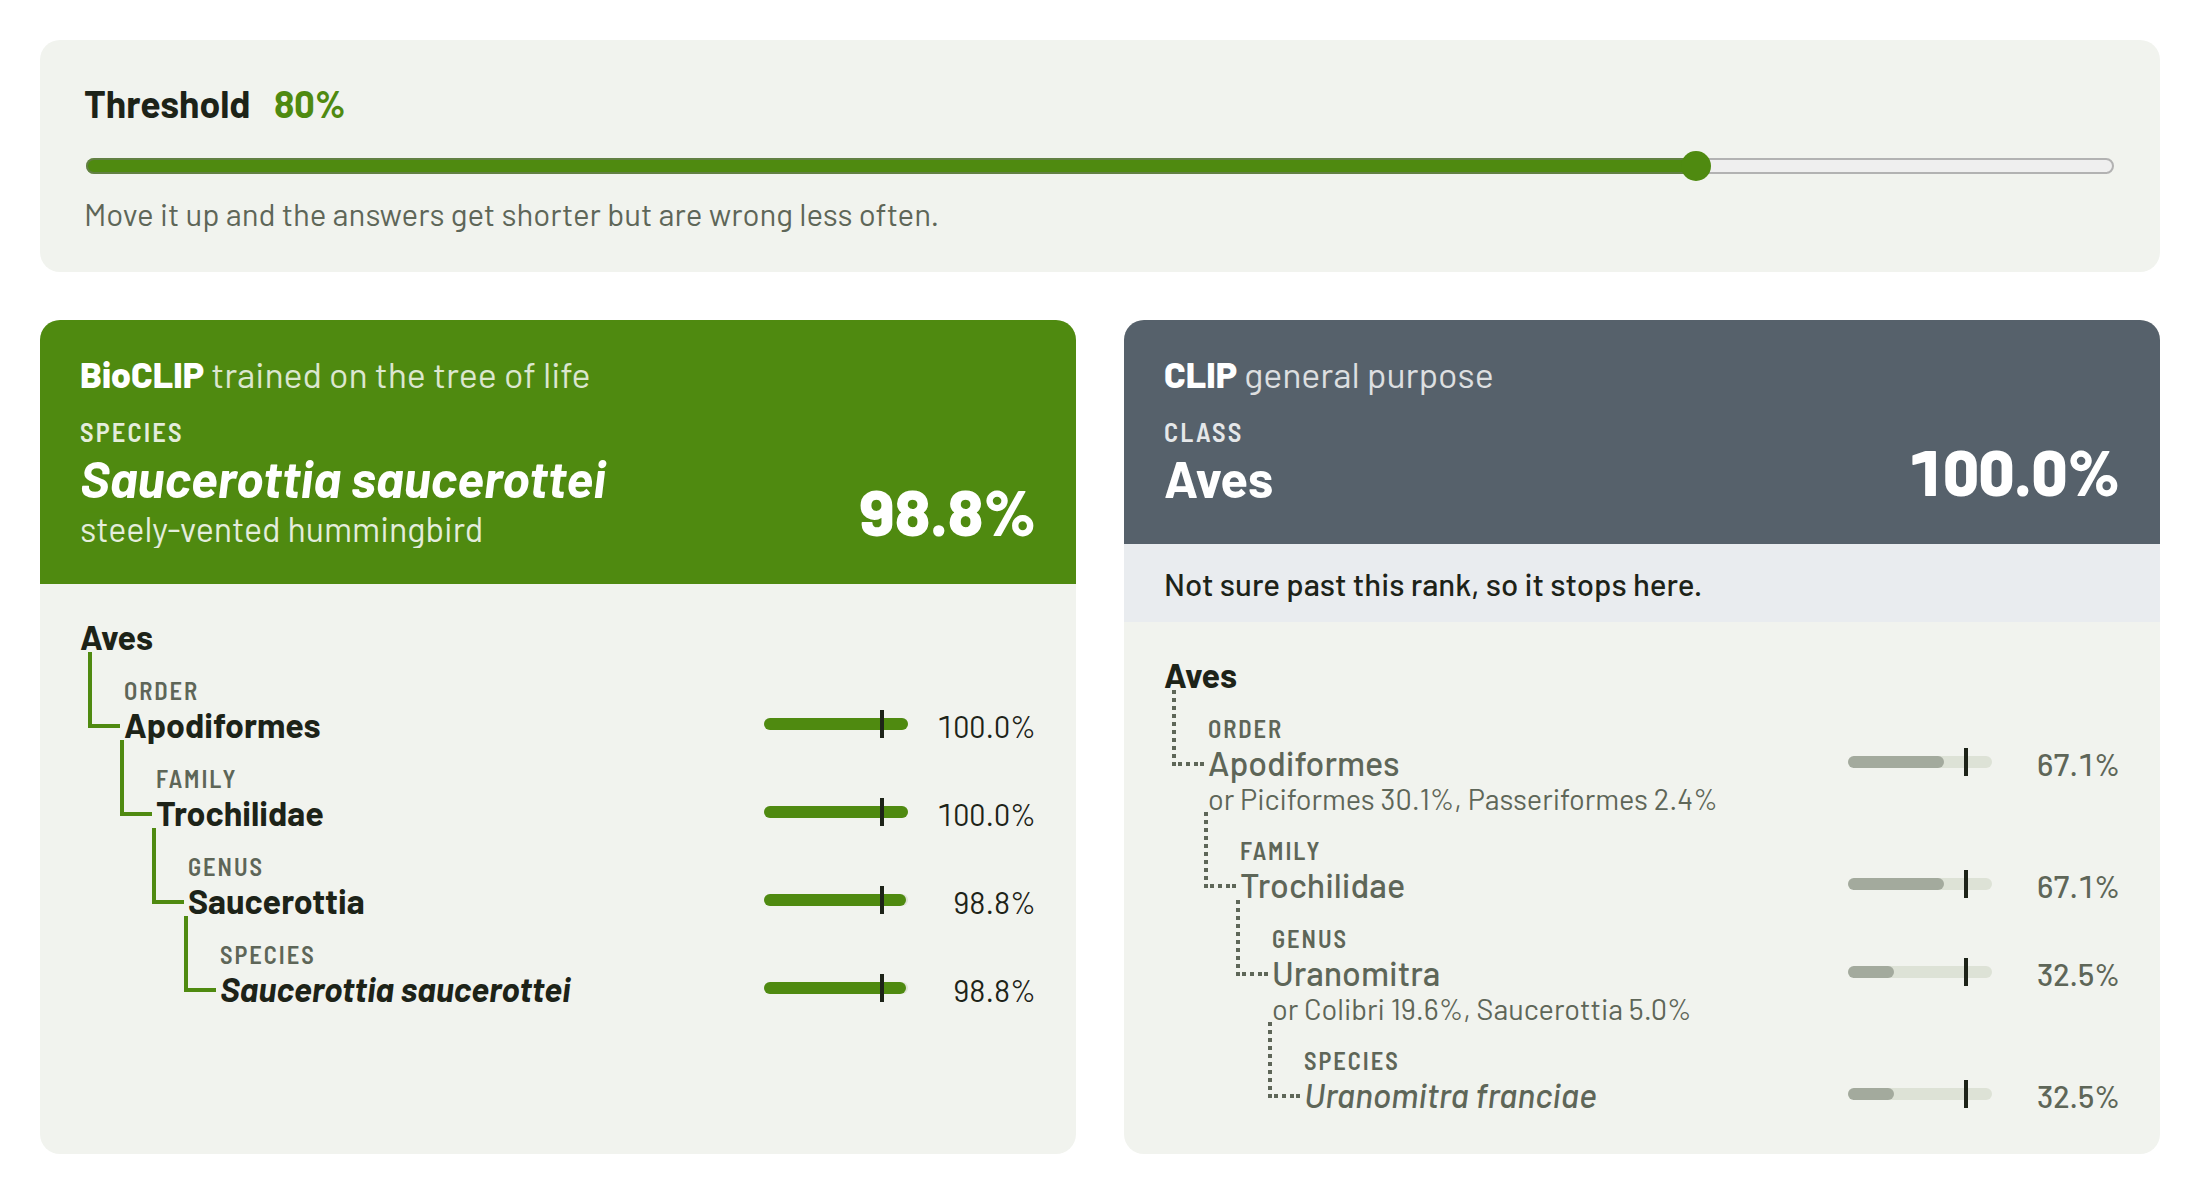
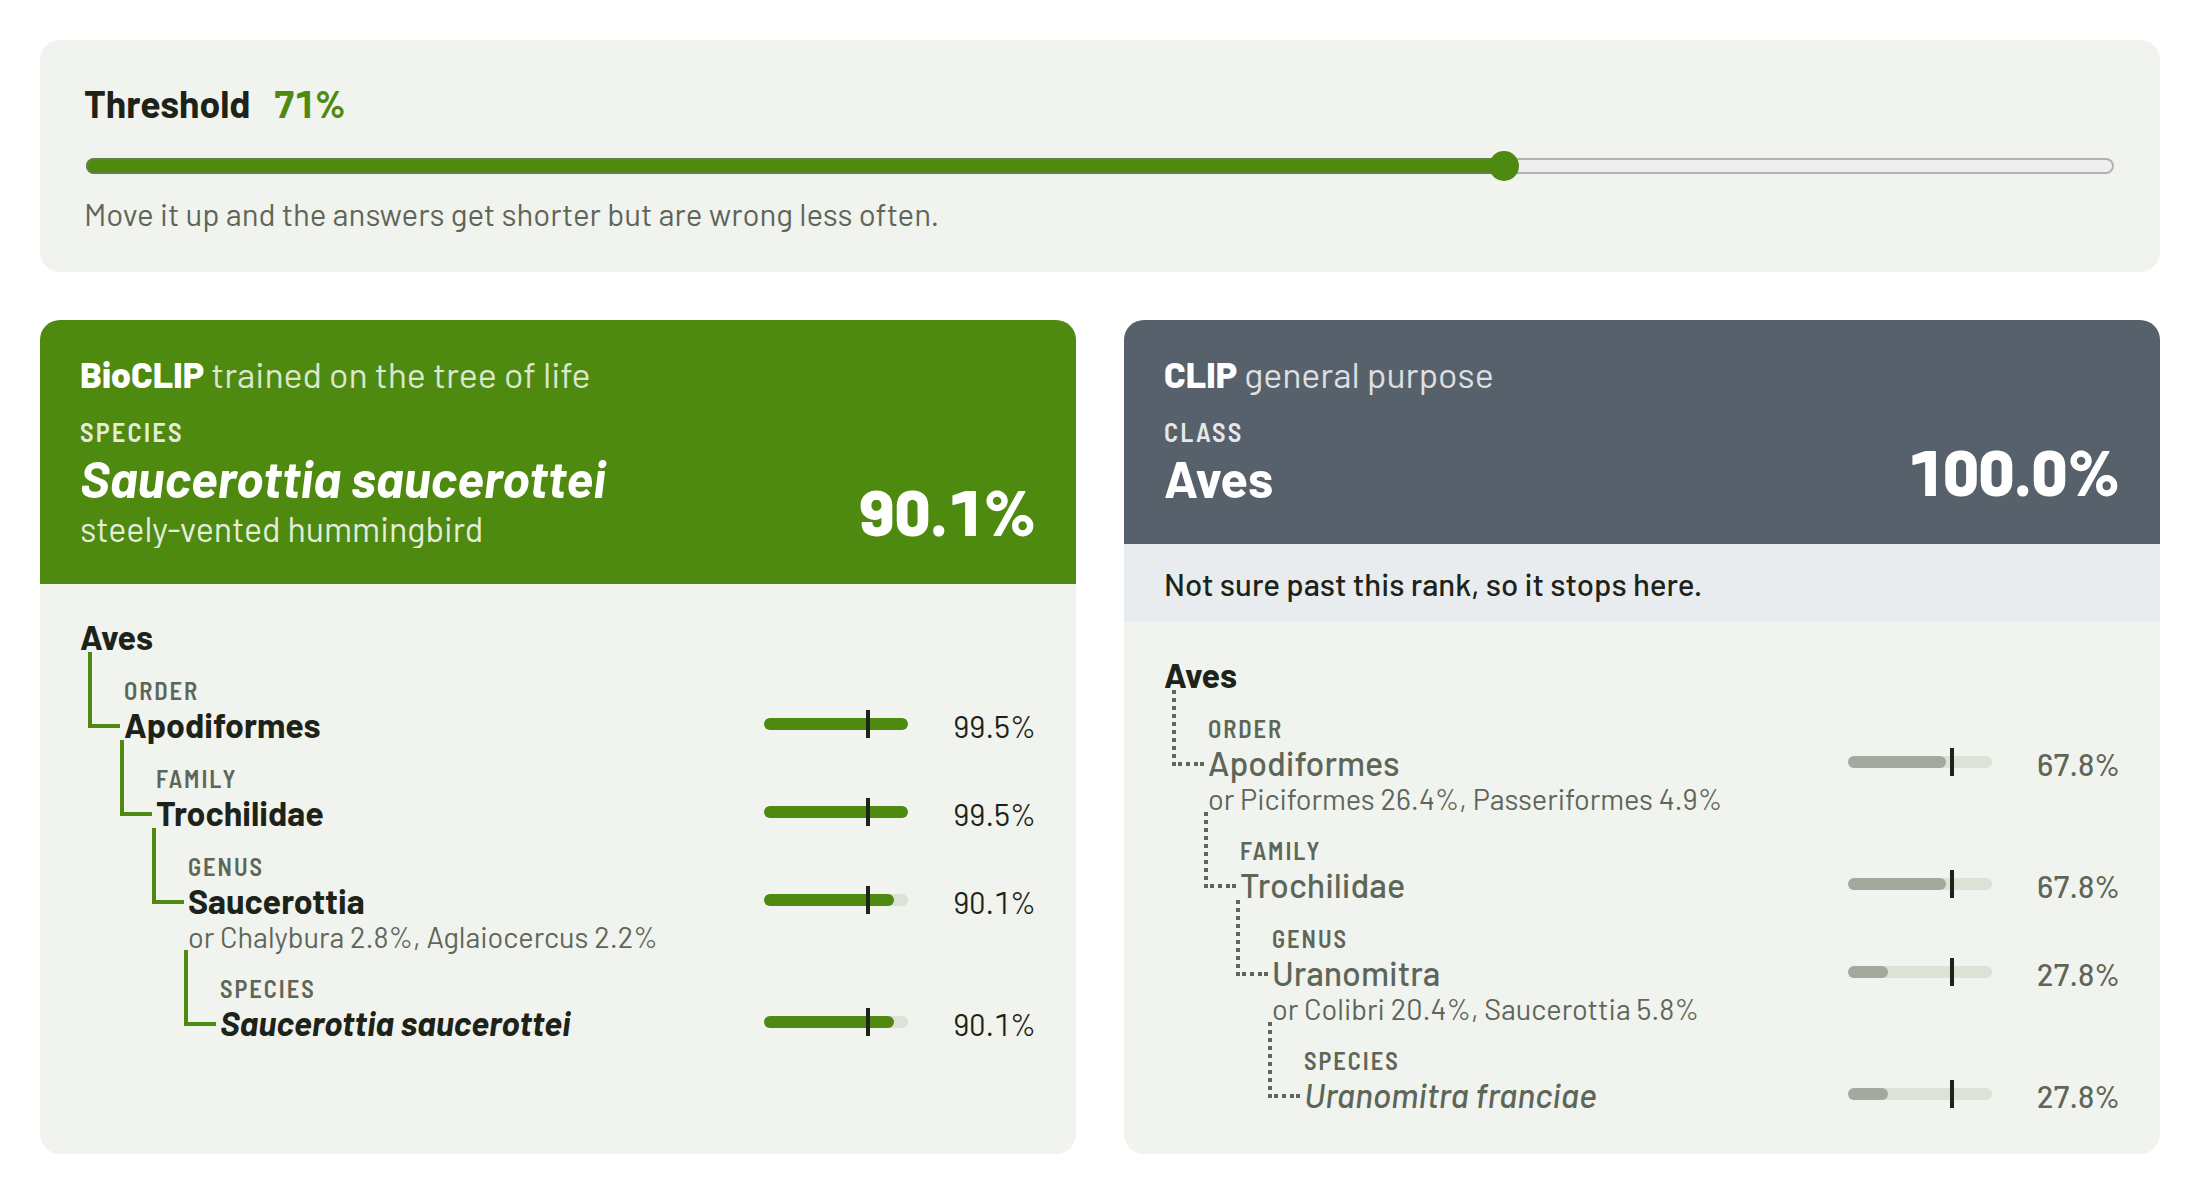
readme: calibrated results, the field guide agent, serving and mlops

diff --git a/README.md b/README.md
@@ -60,37 +60,71 @@ to species; moving up means more of those answers are wrong.
 
 <img src="results/aves_colombia/risk_coverage.png" alt="Risk vs. coverage for CLIP and BioCLIP" width="560">
 
-At an 80% threshold, BioCLIP names the species for 72% of the photos and gets 7.5% of those wrong
-(down from 22.5% wrong when it's forced to always answer). The other photos stop at genus, family or order instead of guessing.
-CLIP, to get to the same error rate, has to give up on 96% of the photos.
+**Picking the threshold honestly.** Sweeping a threshold over the test set and picking the best one would be cheating,
+so I built a second set of 1,000 photos for validation (none shared with the test set). On it I calibrated BioCLIP
+with temperature scaling and picked the threshold that answers the most photos down to species while keeping
+wrong answers at or below 5%. That came out at **71%**. Then, once, on the test set:
+
+- BioCLIP names the species for **65.7%** of the photos, and **4.1%** of all its answers are wrong
+  (22.5% when it's forced to always name a species). The rest stop at genus, family or order.
+- CLIP at its own validation threshold reaches species on 3.9% of the photos.
 
 A few things I didn't expect:
 
-- **BioCLIP is overconfident.** 29 of its wrong answers come with more than 90% probability. A threshold helps a lot,
-  but it can't fix a model that's sure and wrong; calibration is next on the list.
+- **BioCLIP is overconfident out of the box.** 29 of its wrong answers come with more than 90% probability.
+  Temperature scaling brings that down to 7, and its calibration error from 0.077 to 0.027. It doesn't move the curve,
+  though: it changes how sure the model says it is, not which photos it's more sure about.
 - **Its mistakes aren't milder, there are just fewer of them.** A wrong BioCLIP species shares, on average, 4.2 of 7 ranks
   with the right one. CLIP: 4.0. About a third of BioCLIP's mistakes already pick the wrong order.
 - **Some confusions make total sense** (two black-and-red woodpeckers, two kingfishers of the same genus), and some
   are just color: a yellow warbler called a saffron finch, four times out of five.
+- **The image space alone is already organized.** For each photo, 54% of its 10 nearest photos in BioCLIP's space are from
+  the same family (CLIP: 36%), and 29% from the same genus (CLIP: 15%).
 
-The full notes, with the caveats, are in [results/aves_colombia](results/aves_colombia/README.md).
+The full notes, with the caveats and the UMAP plot, are in [results/aves_colombia](results/aves_colombia/README.md).
 
 ## The demo
 
-A small web app to try it with your own photos: upload a bird, both models walk down the tree side by side,
-and a slider moves the threshold. The branches stay solid while a model is sure and turn dotted where it stops.
+A web app to try it with your own photos: upload a bird, both models walk down the tree side by side,
+and a slider moves the threshold (it starts at the 71% picked on validation). The branches stay solid while a model
+is sure and turn dotted where it stops.
 
 - **Backend:** FastAPI ([`entrypoints/api.py`](src/bioclip_co/entrypoints/api.py)). `POST /classify` returns the probability
   of every node of the tree for both models, once per photo.
 - **Frontend:** React + Vite + TypeScript ([`web/`](web/)). The threshold is applied in the browser
   ([`tree.ts`](web/src/tree.ts) is the same walk as [`abstention.py`](src/bioclip_co/domain/abstention.py)),
   so moving the slider never calls the server.
-- **Docker:** CPU-only image with the weights inside, so it starts without internet.
 
-```bash
-uv run uvicorn bioclip_co.entrypoints.api:app      # API on :8000
-cd web && npm install && npm run dev               # page on :5173
-```
+## The field guide agent
+
+When BioCLIP stops before the species, a small agent takes over. It's a LangGraph graph with a local LLM
+(Qwen3 4B through Ollama, fully on the GPU next to BioCLIP):
+
+![The field guide asking two questions and staying at the family](docs/agent.png)
+
+1. **Region.** If you say where the photo was taken, it asks GBIF which candidates have been recorded in that department
+   and drops the others.
+2. **Question.** It reads the Wikipedia description of the top candidates and asks you one yes/no question about a single
+   visible feature. LangGraph pauses the graph (`interrupt`) until you answer.
+3. **Rule out, don't pick.** For each candidate separately, the LLM judges whether your answer agrees with its description.
+   The ones that contradict it are dropped, and **BioCLIP's own probabilities** decide among the rest. Up to two questions.
+4. **Card.** A short field-guide entry written only from the cited text, with the IUCN category. For threatened species
+   the page says the exact location is hidden.
+
+The LLM never names a species on its own; it only works with BioCLIP's candidates. My first version let it pick the
+answer among three candidates, and it sometimes picked the one the answer had just ruled out; judging one candidate
+at a time fixed that. It still sometimes asks a question that doesn't separate the candidates (in the screenshot,
+both remaining hummingbirds have a violet crown), and then it does the right thing: it stays at the family.
+
+## Serving and MLOps, all on this machine
+
+| | what | where |
+|---|---|---|
+| **ONNX** | PyTorch vs. ONNX vs. INT8: ONNX is ~2× faster on CPU for the same accuracy; INT8 is 4× smaller and costs 4.5 points. Quantizing the text encoder broke the model (78% → 38%), so only the image encoder is INT8 | [results/serving](results/serving/README.md) |
+| **MLflow** | every quality-gate run logged with its metrics; a model that passes is registered as a new version of `bioclip-colombia` (a pyfunc model you can load and call) | [`quality_gate.py`](scripts/quality_gate.py) |
+| **Jenkins** | tests → web build → model quality gate on the GPU → Docker image. Run it with `MODEL=clip` and the gate blocks it | [`Jenkinsfile`](Jenkinsfile), [`quality_gate.json`](quality_gate.json) |
+| **Docker** | the API with CPU-only torch and the weights inside, so it starts without internet | [`Dockerfile`](Dockerfile) |
+| **AWS SAM** | the classifier as a Lambda on ONNX Runtime with precomputed text embeddings (no torch), tested with `sam local invoke`, not deployed | [`template.yaml`](template.yaml) |
 
 ## Run it yourself
 
@@ -104,12 +138,27 @@ uv run first_look.py data/samples/amazilia_tzacatl_yarumal.jpg --candidates data
 
 The first run downloads the BioCLIP and CLIP weights (about 600 MB each). It works on a CPU and uses the GPU if there is one.
 
-To rebuild the test set and evaluate both models (the test set takes ~15 minutes because the iNaturalist API is rate limited;
-the evaluation takes seconds on a GPU, a few minutes on a laptop):
+Each service runs in its own terminal with [`run.sh`](run.sh):
+
+```bash
+./run.sh ollama     # local LLM for the agent (after: ollama pull qwen3:4b-instruct)
+./run.sh api        # http://localhost:8000
+./run.sh web        # http://localhost:5173
+./run.sh mlflow     # http://localhost:5000
+./run.sh jenkins    # http://localhost:8080
+```
+
+To rebuild the data and the results (the photo sets take ~15 minutes each because the iNaturalist API is rate limited;
+the rest takes seconds to minutes on a GPU):
 
 ```bash
 uv run scripts/build_testset.py data/candidates/aves_colombia.csv -k 5
-uv run scripts/evaluate.py
+uv run scripts/build_testset.py data/candidates/aves_colombia.csv -k 5 -o data/valset --exclude data/testset/manifest.csv
+./run.sh evaluate && ./run.sh calibrate && ./run.sh evaluate
+uv run --group analysis scripts/embedding_map.py
+./run.sh onnx
+./run.sh gate
+./run.sh lambda
 ```
 
 ## How the code is organized
@@ -121,26 +170,28 @@ src/bioclip_co/
 ├── domain/          plain Python, no ML libraries
 │   ├── taxonomy.py      Taxon, adding probabilities up the tree
 │   ├── abstention.py    walking down the tree with a threshold
-│   └── metrics.py       accuracy per rank, mistake depth, risk-coverage
-├── ports/           what the app needs from a model (ImageTextEncoder)
-├── adapters/        BioCLIP/CLIP through OpenCLIP, the candidates CSV reader
-├── application/     prompts and zero-shot probabilities
-└── entrypoints/     the FastAPI app
-scripts/             fetch candidates, build the test set, evaluate
+│   └── metrics.py       accuracy per rank, mistake depth, risk-coverage, calibration error
+├── ports/           what the app needs from the outside: an image-text encoder, an encyclopedia,
+│                    occurrence records, a field-guide writer (the LLM)
+├── adapters/        OpenCLIP, ONNX Runtime, GBIF, Wikipedia, Ollama, the candidates CSV
+├── application/     zero-shot probabilities, calibration, the LangGraph field guide
+└── entrypoints/     FastAPI app, AWS Lambda handler, MLflow model
+scripts/             build the photo sets, evaluate, calibrate, export to ONNX, benchmark, quality gate
 web/                 the React demo
-first_look.py        try it on one photo
-tests/
+tests/               52 tests; none of them loads a model or calls an API
 ```
 
-Swapping BioCLIP for an ONNX or OpenVINO version later means writing one more adapter; nothing else changes.
-The API tests already do something like that: they plug in a fake encoder and never load a model.
+Swapping models is writing an adapter: the ONNX version sits behind the same port as the PyTorch one, and the tests
+plug in a fake encoder, a fake LLM and fake GBIF/Wikipedia.
 
 ## Things that didn't work (yet)
 
 - My first test set had zero photos of *Tyrannus tyrannus*. Searching iNaturalist by name returned other *Tyrannus*
   species, and my filter threw them all away. Photos are now looked up by taxon id.
-- The threshold isn't tuned. The numbers above describe the whole curve; picking one value has to happen on a separate
-  validation split, not on the test set.
+- The silhouette score said nothing about the embedding space (near zero for both models); neighbor agreement did.
+- Quantizing the whole model to INT8 halved its accuracy (above).
+- The agent's small LLM sometimes asks questions that don't separate the candidates. And the GBIF filter didn't help in the
+  department I tried most (Valle del Cauca): it's so well surveyed that every candidate had records there.
 - Five photos per species is enough for the totals, not for per-species conclusions.
 
 ## Roadmap
@@ -150,11 +201,13 @@ The API tests already do something like that: they plug in a fake encoder and ne
 - [x] Metrics: accuracy per rank, mistake depth, risk-coverage
 - [x] Full evaluation on a 1,000-photo iNaturalist test set
 - [x] Web demo: FastAPI + React, Docker image for the API
-- [ ] Tune the threshold on a validation split, and calibrate BioCLIP
-- [ ] Look inside the embedding space (UMAP by order and family)
-- [ ] ONNX / OpenVINO: latency vs. accuracy
-- [ ] A "field guide" agent (LangGraph + a local LLM) that narrows candidates by region and asks follow-up questions
-- [ ] CI/CD with a model quality gate, and experiment tracking with MLflow
+- [x] Threshold picked on a validation set, BioCLIP calibrated
+- [x] Embedding space: UMAP and nearest-neighbor agreement
+- [x] ONNX / INT8: size, latency and accuracy
+- [x] Field guide agent: LangGraph + a local LLM, region filter, follow-up questions
+- [x] Jenkins pipeline with a model quality gate, MLflow tracking and registry
+- [x] AWS SAM template, tested locally
+- [ ] Try my own photos
 - [ ] Public demo online
 
 ## Data and credits
